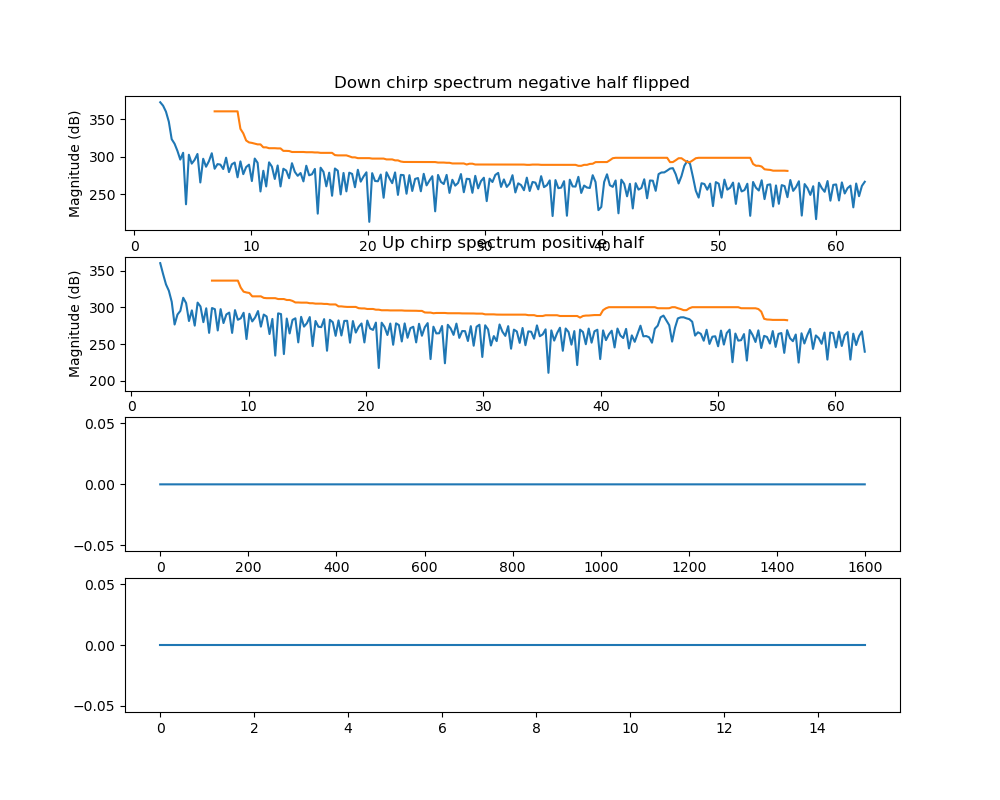
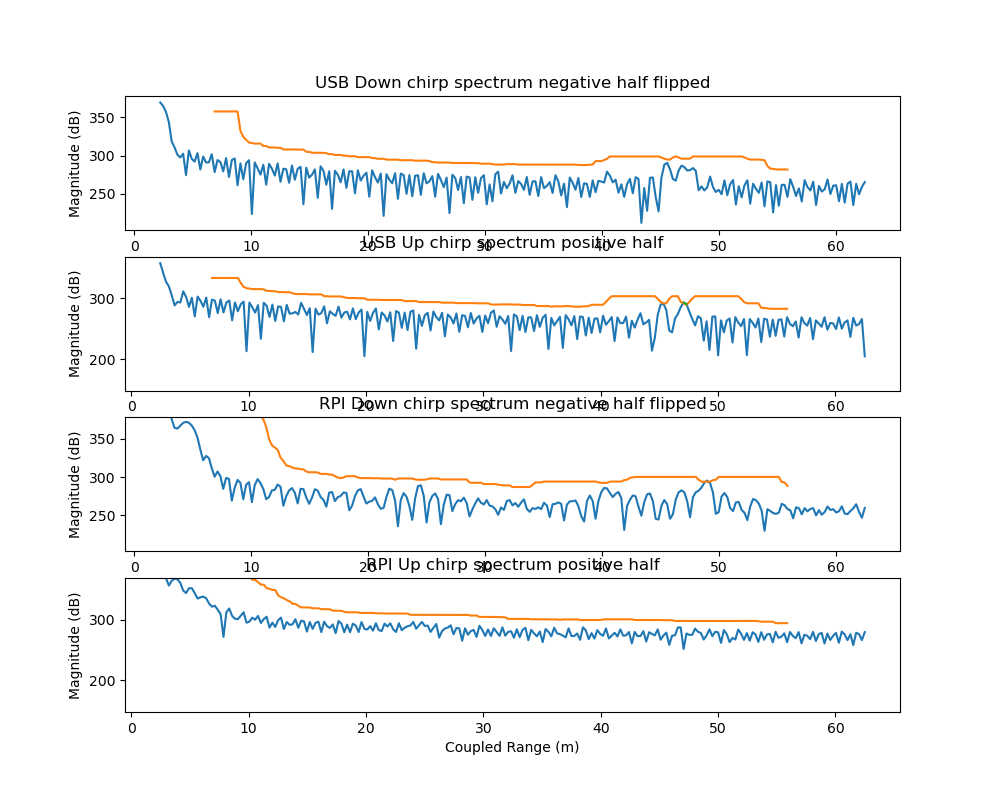
Good wip

diff --git a/realt_dsp/python_plot/pyPlotDSP_dual_uRAD_cam.py b/realt_dsp/python_plot/pyPlotDSP_dual_uRAD_cam.py
@@ -9,7 +9,8 @@ import numpy as np
 # import matplotlib
 # matplotlib.use('Agg')
 import matplotlib.pyplot as plt
-from matplotlib.animation import FuncAnimation
+import cv2
+from matplotlib.gridspec import GridSpec
 # True if USB, False if UART
 usb_communication = True
 
@@ -148,43 +149,55 @@ os_pkd = 20*np.log(abs(os_pkd))
 
 # x = np.zeros(100, 100)
 # y = np.zeros(100, 100)
-figure, ax = plt.subplots(nrows=4, ncols=1, figsize=(10, 8))
-line1, = ax[0].plot(rng_ax, fftu)
-line2, = ax[0].plot(rng_ax, upth)
-line3, = ax[1].plot(rng_ax, fftd)
-line4, = ax[1].plot(rng_ax, dnth)
 
-ax[0].set_title("USB Down chirp spectrum negative half flipped")
-ax[1].set_title("USB Up chirp spectrum positive half")
+fig = plt.figure()
+gs = GridSpec(4, 2, wspace=0.4, hspace=0.3, figure=fig)
 
-ax[0].set_xlabel("Coupled Range (m)")
-ax[1].set_xlabel("Coupled Range (m)")
+ax1 = fig.add_subplot(gs[0, 0])
+ax2 = fig.add_subplot(gs[1, 0])
+ax3 = fig.add_subplot(gs[2, 0])
+ax4 = fig.add_subplot(gs[3, 0])
 
-ax[0].set_ylabel("Magnitude (dB)")
-ax[1].set_ylabel("Magnitude (dB)")
+ax5 = fig.add_subplot(gs[0:1, 1])
+ax6 = fig.add_subplot(gs[2:3, 1])
+
+# figure, ax = plt.subplots(nrows=4, ncols=2, figsize=(10, 8))
+# line1, = ax[0, 0].plot(rng_ax, fftu)
+# line2, = ax[0, 0].plot(rng_ax, upth)
+# line3, = ax[1, 0].plot(rng_ax, fftd)
+# line4, = ax[1, 0].plot(rng_ax, dnth)
+
+# ax[0, 0].set_title("USB Down chirp spectrum negative half flipped")
+# ax[1, 0].set_title("USB Up chirp spectrum positive half")
+
+# ax[0, 0].set_xlabel("Coupled Range (m)")
+# ax[1, 0].set_xlabel("Coupled Range (m)")
+
+# ax[0, 0].set_ylabel("Magnitude (dB)")
+# ax[1, 0].set_ylabel("Magnitude (dB)")
 
 
-line1_pi, = ax[2].plot(rng_ax, fftu)
-line2_pi, = ax[2].plot(rng_ax, upth)
-line3_pi, = ax[3].plot(rng_ax, fftd)
-line4_pi, = ax[3].plot(rng_ax, dnth)
+# line1_pi, = ax[2, 0].plot(rng_ax, fftu)
+# line2_pi, = ax[2, 0].plot(rng_ax, upth)
+# line3_pi, = ax[3, 0].plot(rng_ax, fftd)
+# line4_pi, = ax[3, 0].plot(rng_ax, dnth)
 
-ax[2].set_title("RPI Down chirp spectrum negative half flipped")
-ax[3].set_title("RPI Up chirp spectrum positive half")
+# ax[2, 0].set_title("RPI Down chirp spectrum negative half flipped")
+# ax[3, 0].set_title("RPI Up chirp spectrum positive half")
 
-ax[2].set_xlabel("Coupled Range (m)")
-ax[3].set_xlabel("Coupled Range (m)")
+# ax[2, 0].set_xlabel("Coupled Range (m)")
+# ax[3, 0].set_xlabel("Coupled Range (m)")
 
-ax[2].set_ylabel("Magnitude (dB)")
-ax[3].set_ylabel("Magnitude (dB)")
+# ax[2, 0].set_ylabel("Magnitude (dB)")
+# ax[3, 0].set_ylabel("Magnitude (dB)")
 
 
 
 # CFAR stems
 # line5, = ax[0].stem([],cfar_res_up)
 # line6, = ax[1].stem([],cfar_res_dn)
-line5, = ax[0].plot(rng_ax, os_pku, markersize=20)
-line6, = ax[1].plot(rng_ax, os_pkd, markersize=20)
+# line5, = ax[0, 0].plot(rng_ax, os_pku, markersize=20)
+# line6, = ax[1, 0].plot(rng_ax, os_pkd, markersize=20)
 
 # line7, = ax[2].plot(rg_full)
 # line8, = ax[3].plot(sp_array)
@@ -196,8 +209,22 @@ line6, = ax[1].plot(rng_ax, os_pkd, markersize=20)
 print("System running...")
 safety_inv = np.zeros(sweeps)
 safety_inv_pi = np.zeros(sweeps)
+
+
+# ****************** CAMERAS ***********************
+def grab_frame(cap):
+	ret,frame = cap.read()
+	# return cv2.cvtColor(frame,cv2.COLOR_BGR2RGB)
+	return frame
+cap1 = cv2.VideoCapture(0)
+
+# im1 = ax[0, 1].imshow(grab_frame(cap1))
+# im2 = ax2.imshow(grab_frame(cap2))
+
 try:
 	for i in range(sweeps):
+		ret1,frame1 = cap1.read()
+		# im1.set_data(grab_frame(cap1))
 		return_code, results, raw_results = uRAD_USB_SDK11.detection(ser)
 		if (return_code != 0):
 			closeProgram()
@@ -230,33 +257,52 @@ try:
 		fftd_pi = 20*np.log(abs(fftd_pi))
 
 		# print(len(cfar_res_up))
-		line1.set_ydata(fftu)
-		line2.set_ydata(upth)
-		line3.set_ydata(fftd)
-		line4.set_ydata(dnth)
-		line5.set_ydata(os_pku)
-		line6.set_ydata(os_pkd)
 
-		line1_pi.set_ydata(fftu_pi)
-		line2_pi.set_ydata(upth_pi)
-		line3_pi.set_ydata(fftd_pi)
-		line4_pi.set_ydata(dnth_pi)
+		ax1.plot(fftu)
+		ax2.plot(upth)
+		ax3.plot(fftd)
+		ax4.plot(dnth)
+
+		
+		# line2.set_ydata(upth)
+		# line3.set_ydata(fftd)
+		# line4.set_ydata(dnth)
+		# line5.set_ydata(os_pku)
+		# line6.set_ydata(os_pkd)
+
+		# line1_pi.set_ydata(fftu_pi)
+		# line2_pi.set_ydata(upth_pi)
+		# line3_pi.set_ydata(fftd_pi)
+		# line4_pi.set_ydata(dnth_pi)
 
 
-		line9 = ax[1].axvline(rng_ax[beat_index])
-		line10 = ax[1].axvline(rng_ax[beat_min])
-		line9.remove()
-		line10.remove()
+		# line1.set_ydata(fftu)
+		# line2.set_ydata(upth)
+		# line3.set_ydata(fftd)
+		# line4.set_ydata(dnth)
+		# line5.set_ydata(os_pku)
+		# line6.set_ydata(os_pkd)
+
+		# line1_pi.set_ydata(fftu_pi)
+		# line2_pi.set_ydata(upth_pi)
+		# line3_pi.set_ydata(fftd_pi)
+		# line4_pi.set_ydata(dnth_pi)
+
+
+		# line9 = ax[1, 0].axvline(rng_ax[beat_index])
+		# line10 = ax[1, 0].axvline(rng_ax[beat_min])
+		# line9.remove()
+		# line10.remove()
 		
 		# print(cfar_res_dn)
 		# TRY THE BELOW:
 		# ani = FuncAnimation(plt.gcf(), update, interval=200)
 		# plt.show()
-		figure.canvas.draw()
-		figure.savefig('temp.jpeg')
+		fig.canvas.draw()
+		fig.savefig('temp.jpeg')
 		# ax[1].clear()
 		# sleep(0.5)
-		figure.canvas.flush_events()
+		fig.canvas.flush_events()
 		# plt.plot(fftu)
 		# plt.show()
 		# sleep(1)
